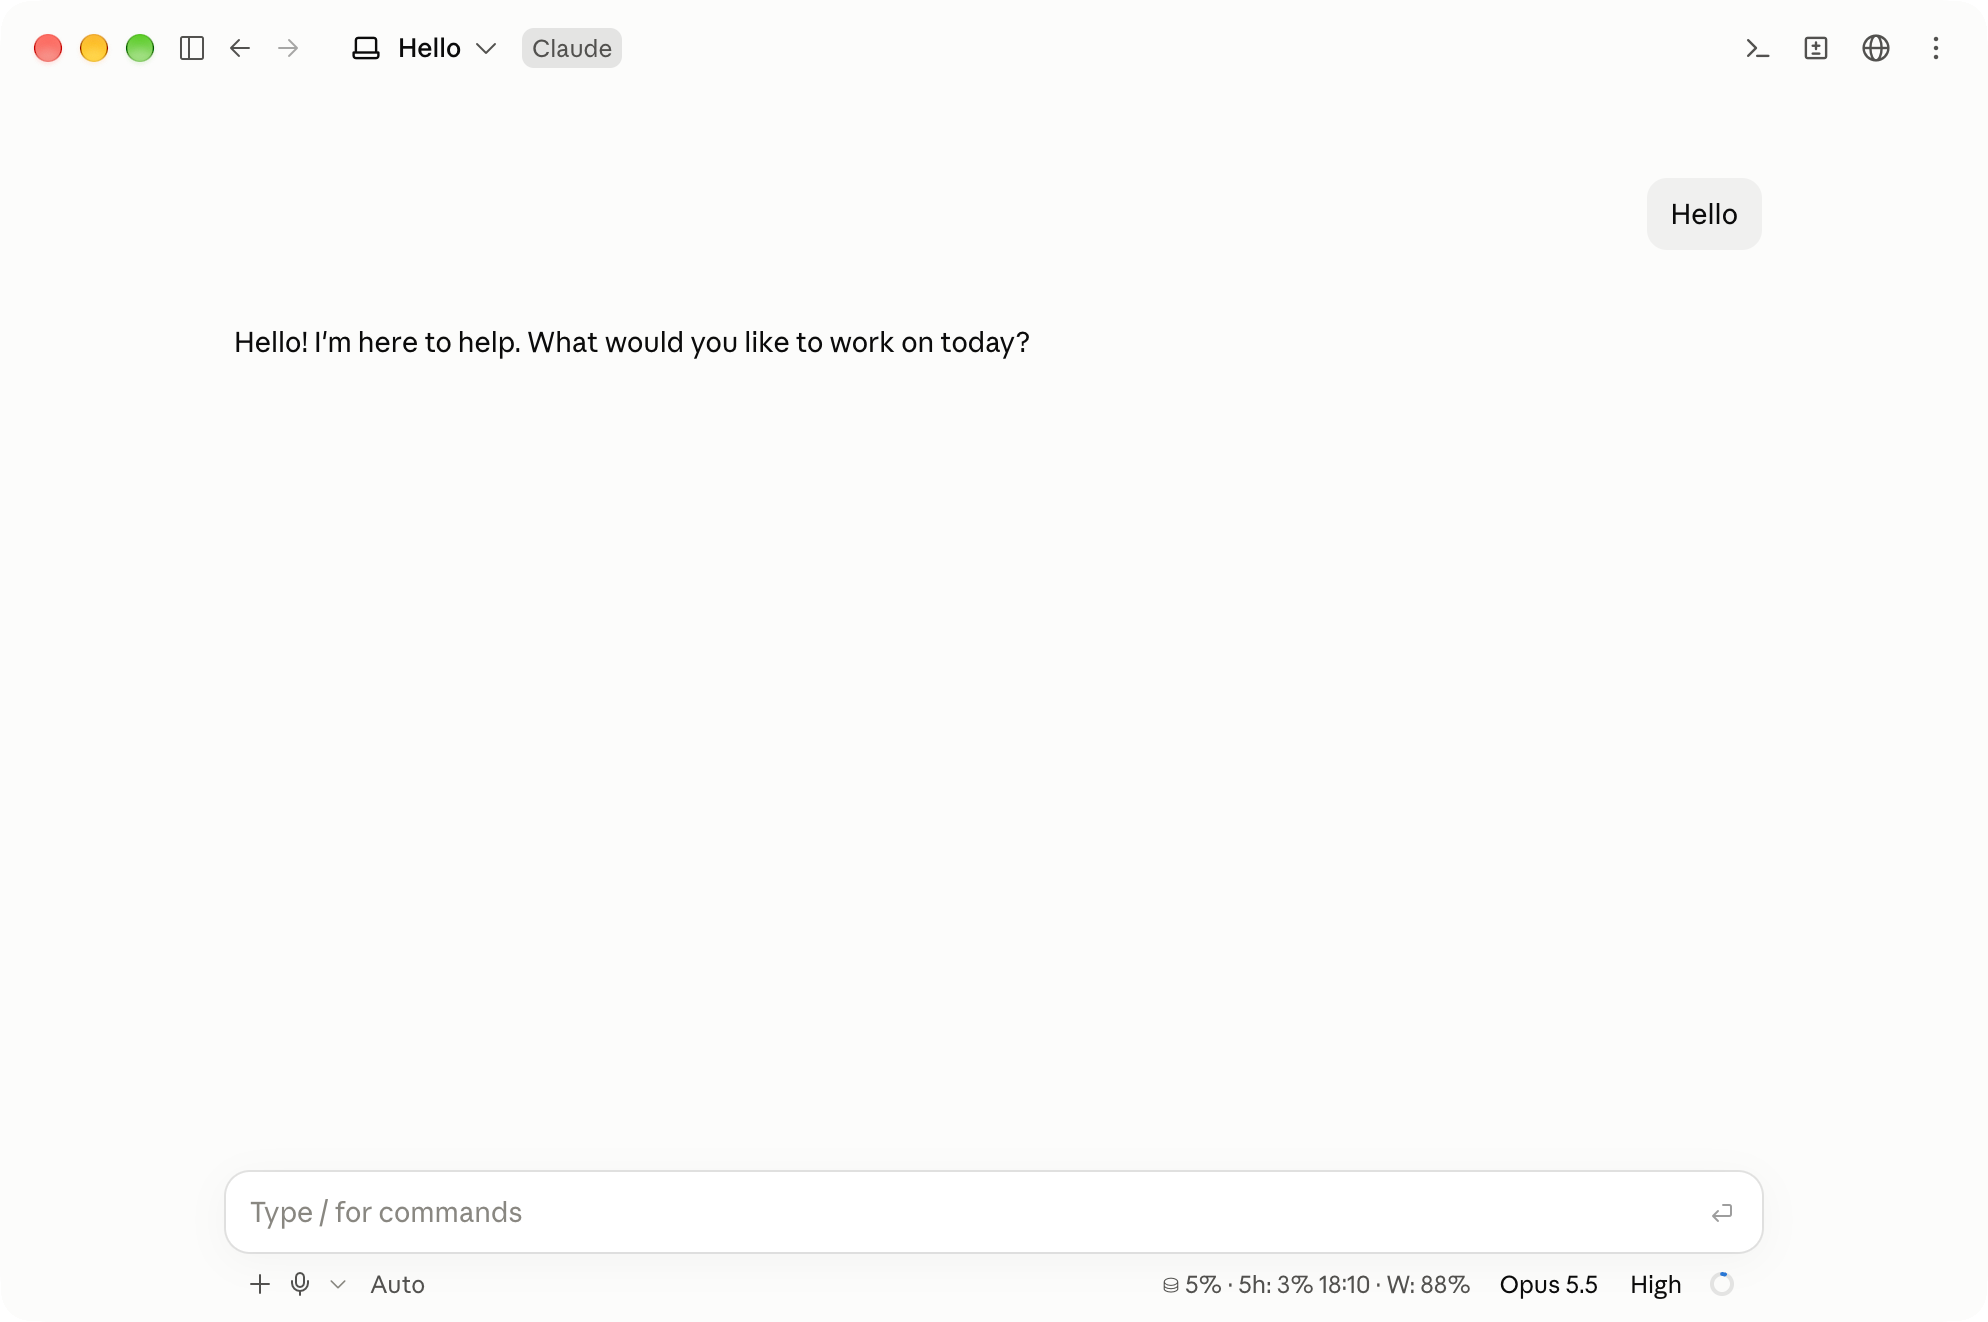
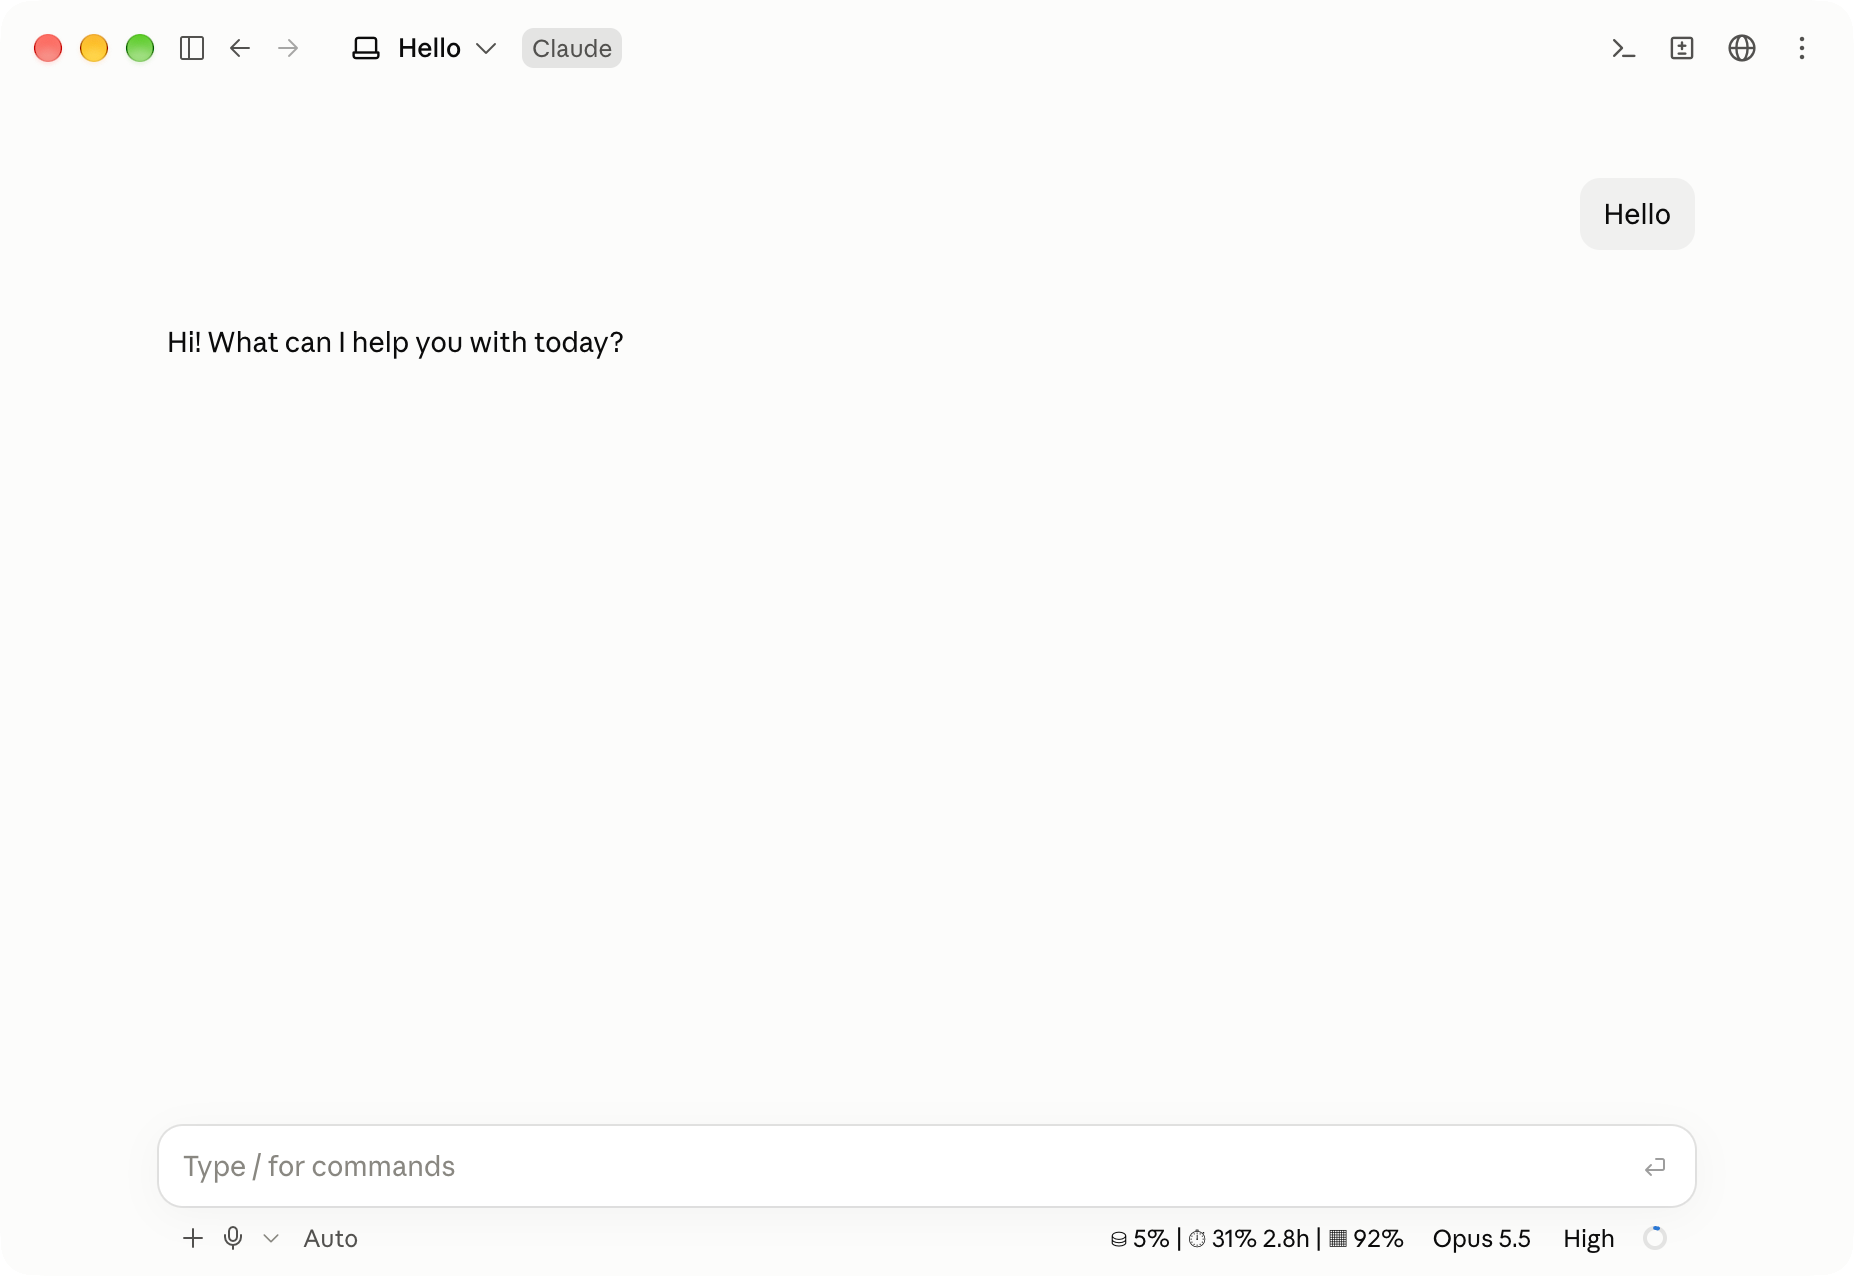
usage-band: estimate context after a compaction

diff --git a/usage-band/hooks/register.ts b/usage-band/hooks/register.ts
@@ -95,6 +95,13 @@ export const register: Register = on => {
     return next(e)
   })
 
+  // A compaction clears the context reading; redraw so the estimate replaces the old figure
+  on('session.compact', async ($, e, next) => {
+    const result = await next(e)
+    $.ui.invalidate('ui.render')
+    return result
+  })
+
   // The desktop footer strip draws this site only from a tree of Text, at most 24ch wide
   on('ui.render', { component: 'SessionMode' }, async ($, e, next) => {
     const now = Date.now()
@@ -103,8 +110,10 @@ export const register: Register = on => {
     const rateLimits = usage.rateLimits.length > 0 ? usage.rateLimits : fresh(cachedLimits, now)
     const parts: string[] = []
 
-    if (context.percent !== undefined) {
-      parts.push(`⛁ ${context.percent}%`)
+    // No reading until the first reply after a start or a compaction; estimate it locally as /context does
+    const contextPercent = context.percent ?? (await $.session.usage({ breakdown: 'summary' })).context.breakdown?.percentage
+    if (contextPercent !== undefined) {
+      parts.push(`⛁ ${contextPercent}%`)
     }
 
     const fiveHour = findLimit(rateLimits, 'five_hour')
